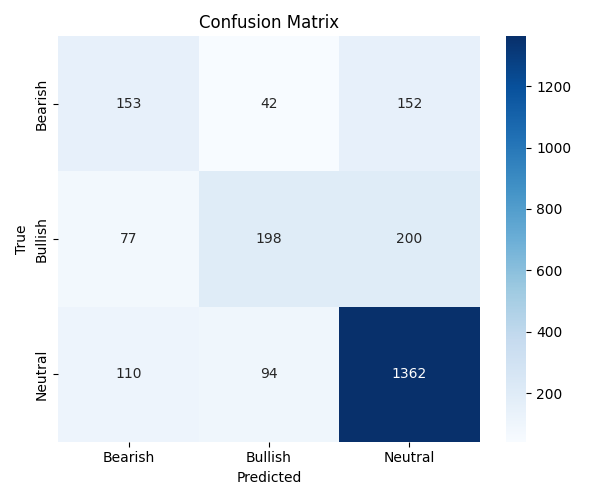
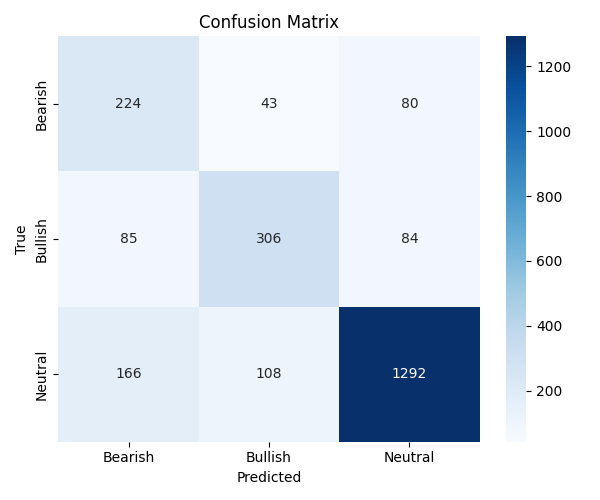
Tested the resulted and finally used 7 epochs for training

diff --git a/Programas/Practice 2/S09_lab_exercise.py b/Programas/Practice 2/S09_lab_exercise.py
@@ -17,7 +17,7 @@ HIDDEN_DIM = 256 # Number of LSTM hidden units per direction
 NUM_LAYERS = 2 # Number of stacked LSTM layers
 DROPOUT = 0.4 # Dropout probability to reduce overfitting
 NUM_CLASSES = 3 # Bearish, Bullish, Neutral
-EPOCHS = 1 # Number of training epochs
+EPOCHS = 7 # Number of training epochs
 
 class LSTM(nn.Module):
     """
